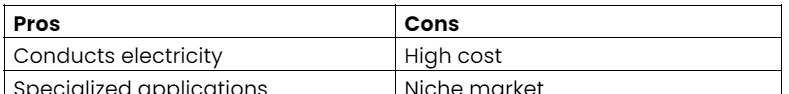
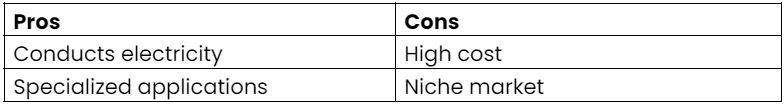
Update Posts “different-types-of-ink-for-printers-guide-2024-compandsave”

Changed region(s): [[0.0, 0.0213, 1.0, 1.0]]

diff --git a/content/posts/different-types-of-ink-for-printers-guide-2024-compandsave.md b/content/posts/different-types-of-ink-for-printers-guide-2024-compandsave.md
@@ -115,4 +115,10 @@ UV ink is used in printers to cure the ink using ultraviolet light. Process UV i
 
 Conductive ink is used in printed electronics to conduct electricity. Conductive ink contains materials like silver or carbon, allowing it to conduct electricity when printed. This ink type is ideal for creating sensors and photovoltaics, where electrical conductivity is required.
 
-[![conductive ink pros and cons table](/blog/images/types-of-ink-11.png "Cinductive Ink Pros and Cons Table")](/blog/images/types-of-ink-11.png)
+[![conductive ink pros and cons table](/blog/images/types-of-ink-11.png "Conductive Ink Pros and Cons Table")](/blog/images/types-of-ink-11.png)
+
+#### **1.5 - 3D Printing Ink**
+
+3D printing ink, often resin, is used in 3D printers to create three-dimensional objects. 3D printing ink is typically made from resin, which is hardened layer by layer to form objects. It is best for prototyping and creating custom parts, offering versatility and precision.
+
+[![3d printing ink pros and cons table](/blog/images/types-of-ink-12.png "3D Printing Ink Pros and Cons Table")](/blog/images/types-of-ink-12.png)
